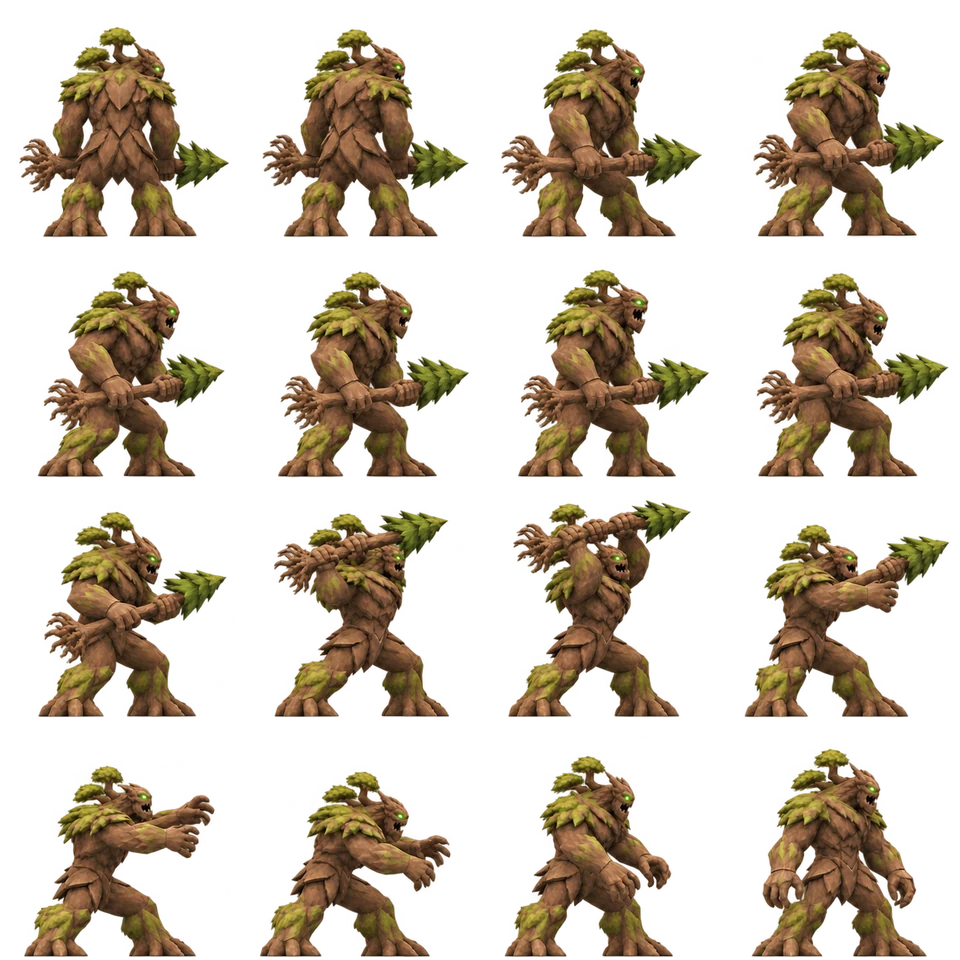
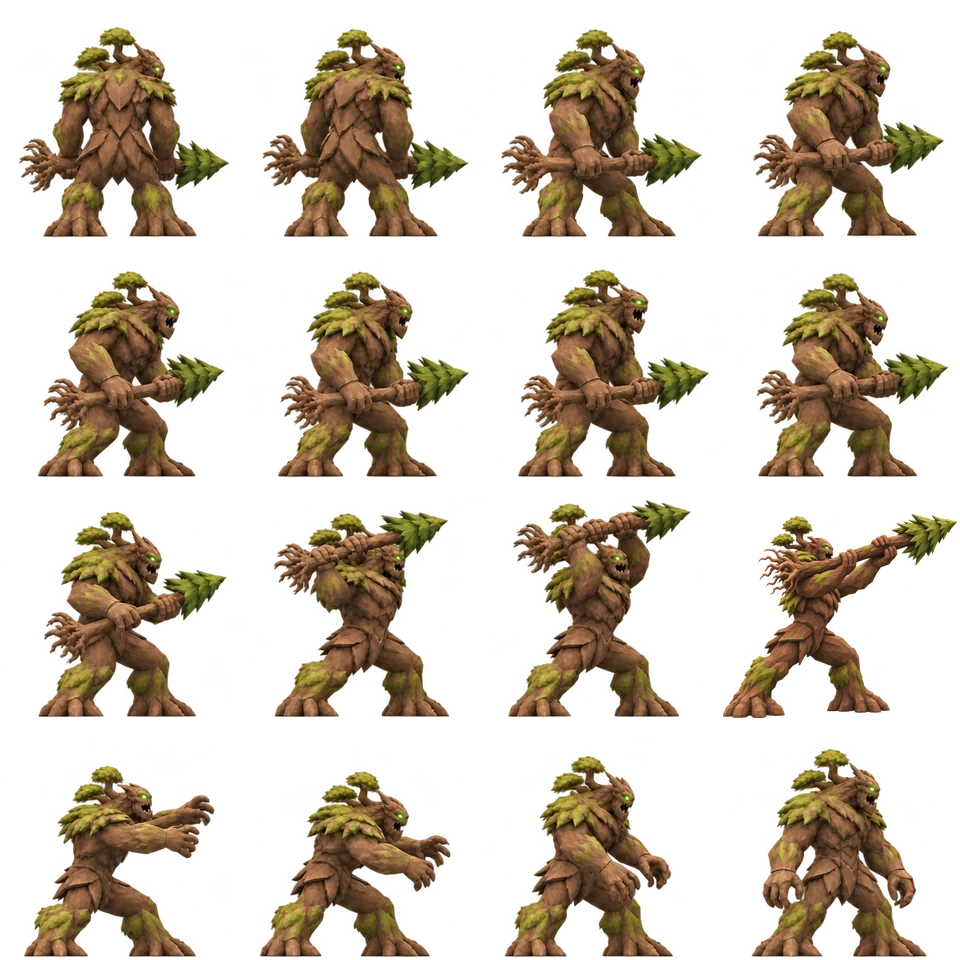
Show the full tree at release and shatter it in a dusty impact

Changed region(s): [[0.75, 0.5312, 1.0, 0.75]]

diff --git a/assets/tree-spell.js b/assets/tree-spell.js
@@ -1,7 +1,7 @@
 (()=>{
   const atlas=new Image(),log=new Image(),listeners=[];
   atlas.onload=()=>listeners.splice(0).forEach(fn=>fn());
-  atlas.src='./assets/tree-sequence.webp?v=0.203.0';
+  atlas.src='./assets/tree-sequence.webp?v=0.204.0';
   log.src='./assets/tree-projectile.webp?v=0.201.0';
   const clamp=x=>Math.max(0,Math.min(1,x));
   const mix=(a,b,t)=>a+(b-a)*t;
@@ -45,14 +45,38 @@
     const spread=1-(1-q)**3;
     g.save();
     g.translate(target.x,target.y-71);
-    g.globalAlpha=(1-q)**1.3;
-    const glow=g.createRadialGradient(0,0,0,0,0,20+spread*67);
-    glow.addColorStop(0,'#faffbdba');glow.addColorStop(.35,'#b3e46165');glow.addColorStop(1,'#c5e67d00');
-    g.fillStyle=glow;g.fillRect(-95,-95,190,190);
-    for(let i=0;i<23;i++){
-      const a=i*2.39996,r=(18+i%8*9)*spread;
-      shard(g,Math.cos(a)*r,Math.sin(a)*r-19*q+36*q*q,a+q*4,
-        (3+i%5*2)*(1-q*.68),['#d2f080','#75ab45','#a77b50','#f5d89a'][i%4]);
+    // Dust fans outward from the collision and billows behind the broken timber.
+    for(let i=0;i<11;i++){
+      const a=i*2.39996;
+      const r=(25+i%5*13)*spread;
+      const x=Math.cos(a)*r,y=Math.sin(a)*r*.69-16*q;
+      const size=(14+i%4*5)*(1+q*.8);
+      g.globalAlpha=(1-q)**1.35*(.38+i%3*.13);
+      g.fillStyle=['#b88b62','#e6c398','#9e7857'][i%3];
+      g.beginPath();
+      for(let j=0;j<7;j++){
+        const angle=j*Math.PI*2/7+i*.29,edge=size*(.78+(j+i)%4*.10);
+        g.lineTo(x+Math.cos(angle)*edge,y+Math.sin(angle)*edge*.77);
+      }
+      g.closePath();g.fill();
+    }
+    if(log.naturalWidth){
+      for(let i=0;i<5;i++){
+        const a=i*2.39996-.6,r=(51+i*13)*spread;
+        const cut=log.naturalWidth/5;
+        g.save();
+        g.translate(Math.cos(a)*r,Math.sin(a)*r*.76-43*q+66*q*q);
+        g.rotate(a*.36+q*(i%2?5:-5));
+        g.globalAlpha=(1-q)**.68;
+        g.drawImage(log,i*cut,0,cut,log.naturalHeight,-24,-27,48,54);
+        g.restore();
+      }
+    }
+    g.globalAlpha=(1-q)**1.1;
+    for(let i=0;i<24;i++){
+      const a=i*2.39996,r=(32+i%8*12)*spread;
+      shard(g,Math.cos(a)*r,Math.sin(a)*r-27*q+63*q*q,a+q*5,
+        (4+i%5*3)*(1-q*.60),['#a67a4e','#634329','#ca9a62','#80a447'][i%4]);
     }
     if(seed){
       const settle=clamp((q-.35)/.65);

diff --git a/arena.html b/arena.html
@@ -258,7 +258,7 @@
 <script src="./assets/venus-trap.js?v=0.180.0" defer></script>
 <script src="./assets/electro-disc.js?v=0.193.0" defer></script>
 <script src="./assets/scalding-air.js?v=0.200.0" defer></script>
-<script src="./assets/tree-spell.js?v=0.203.0" defer></script>
+<script src="./assets/tree-spell.js?v=0.204.0" defer></script>
 <script src="./arena.js?v=0.201.0" defer></script>
 <script src="./assets/wizard-home-v135.js?v=0.180.0" defer></script>
 </body>
